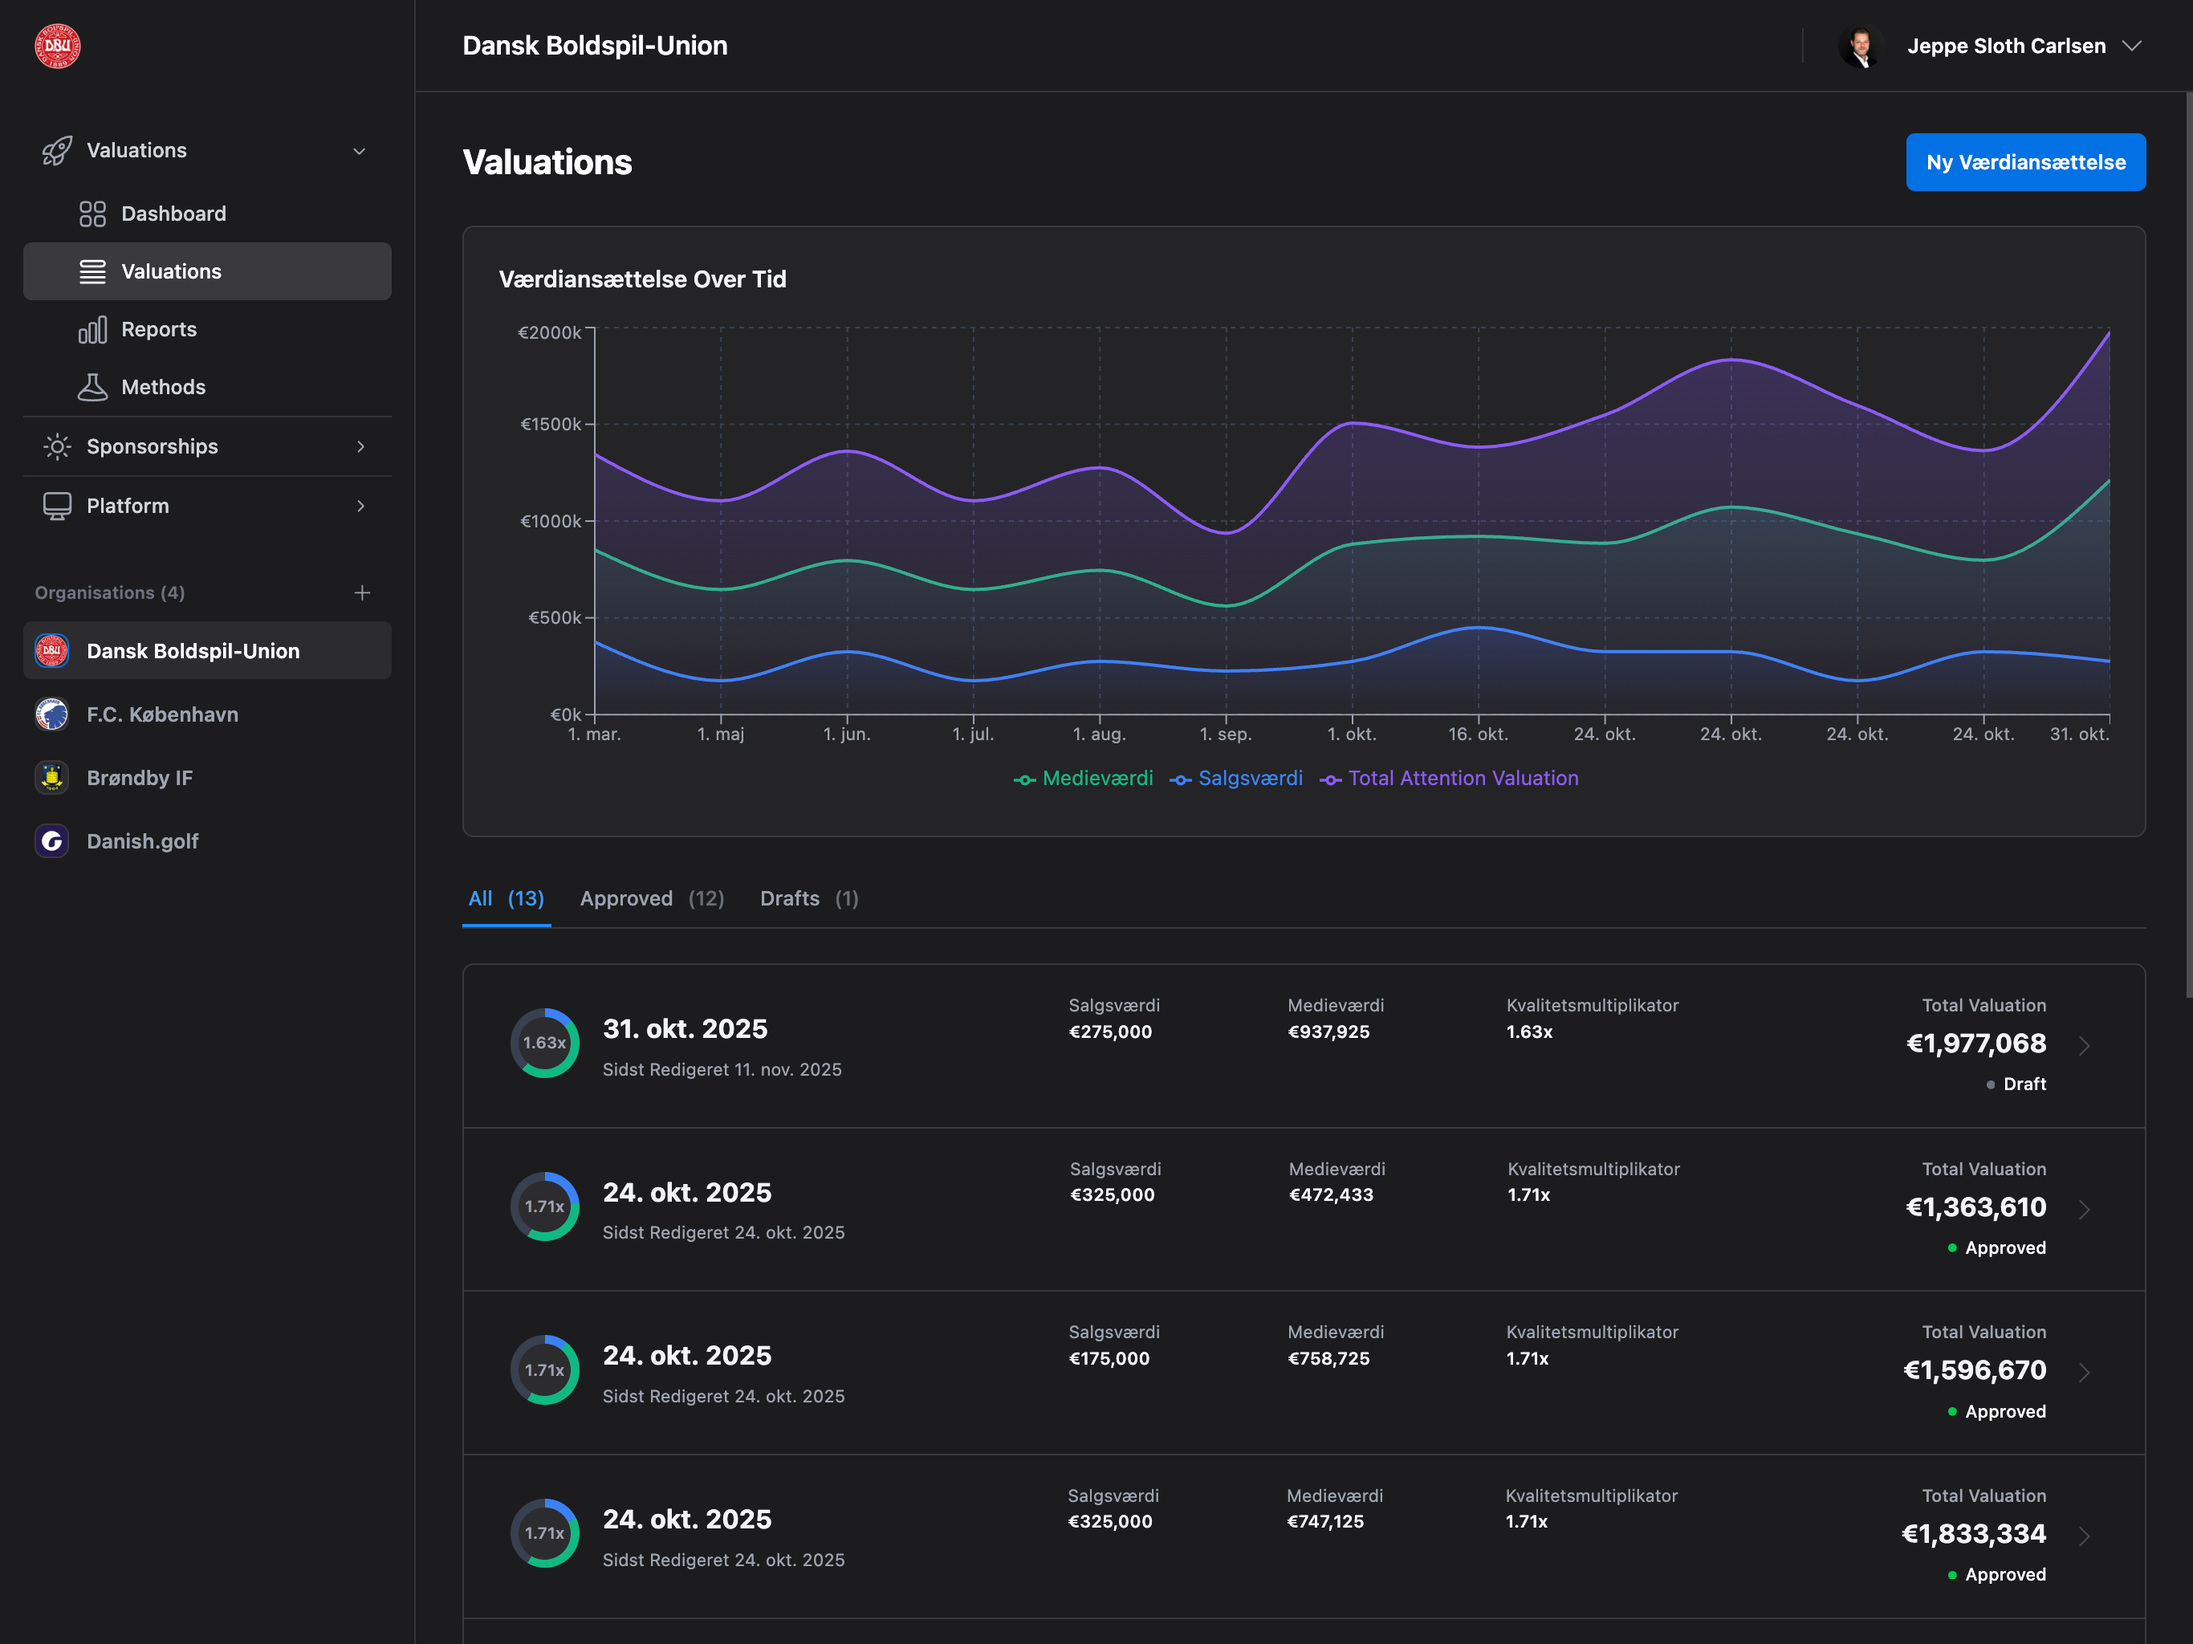
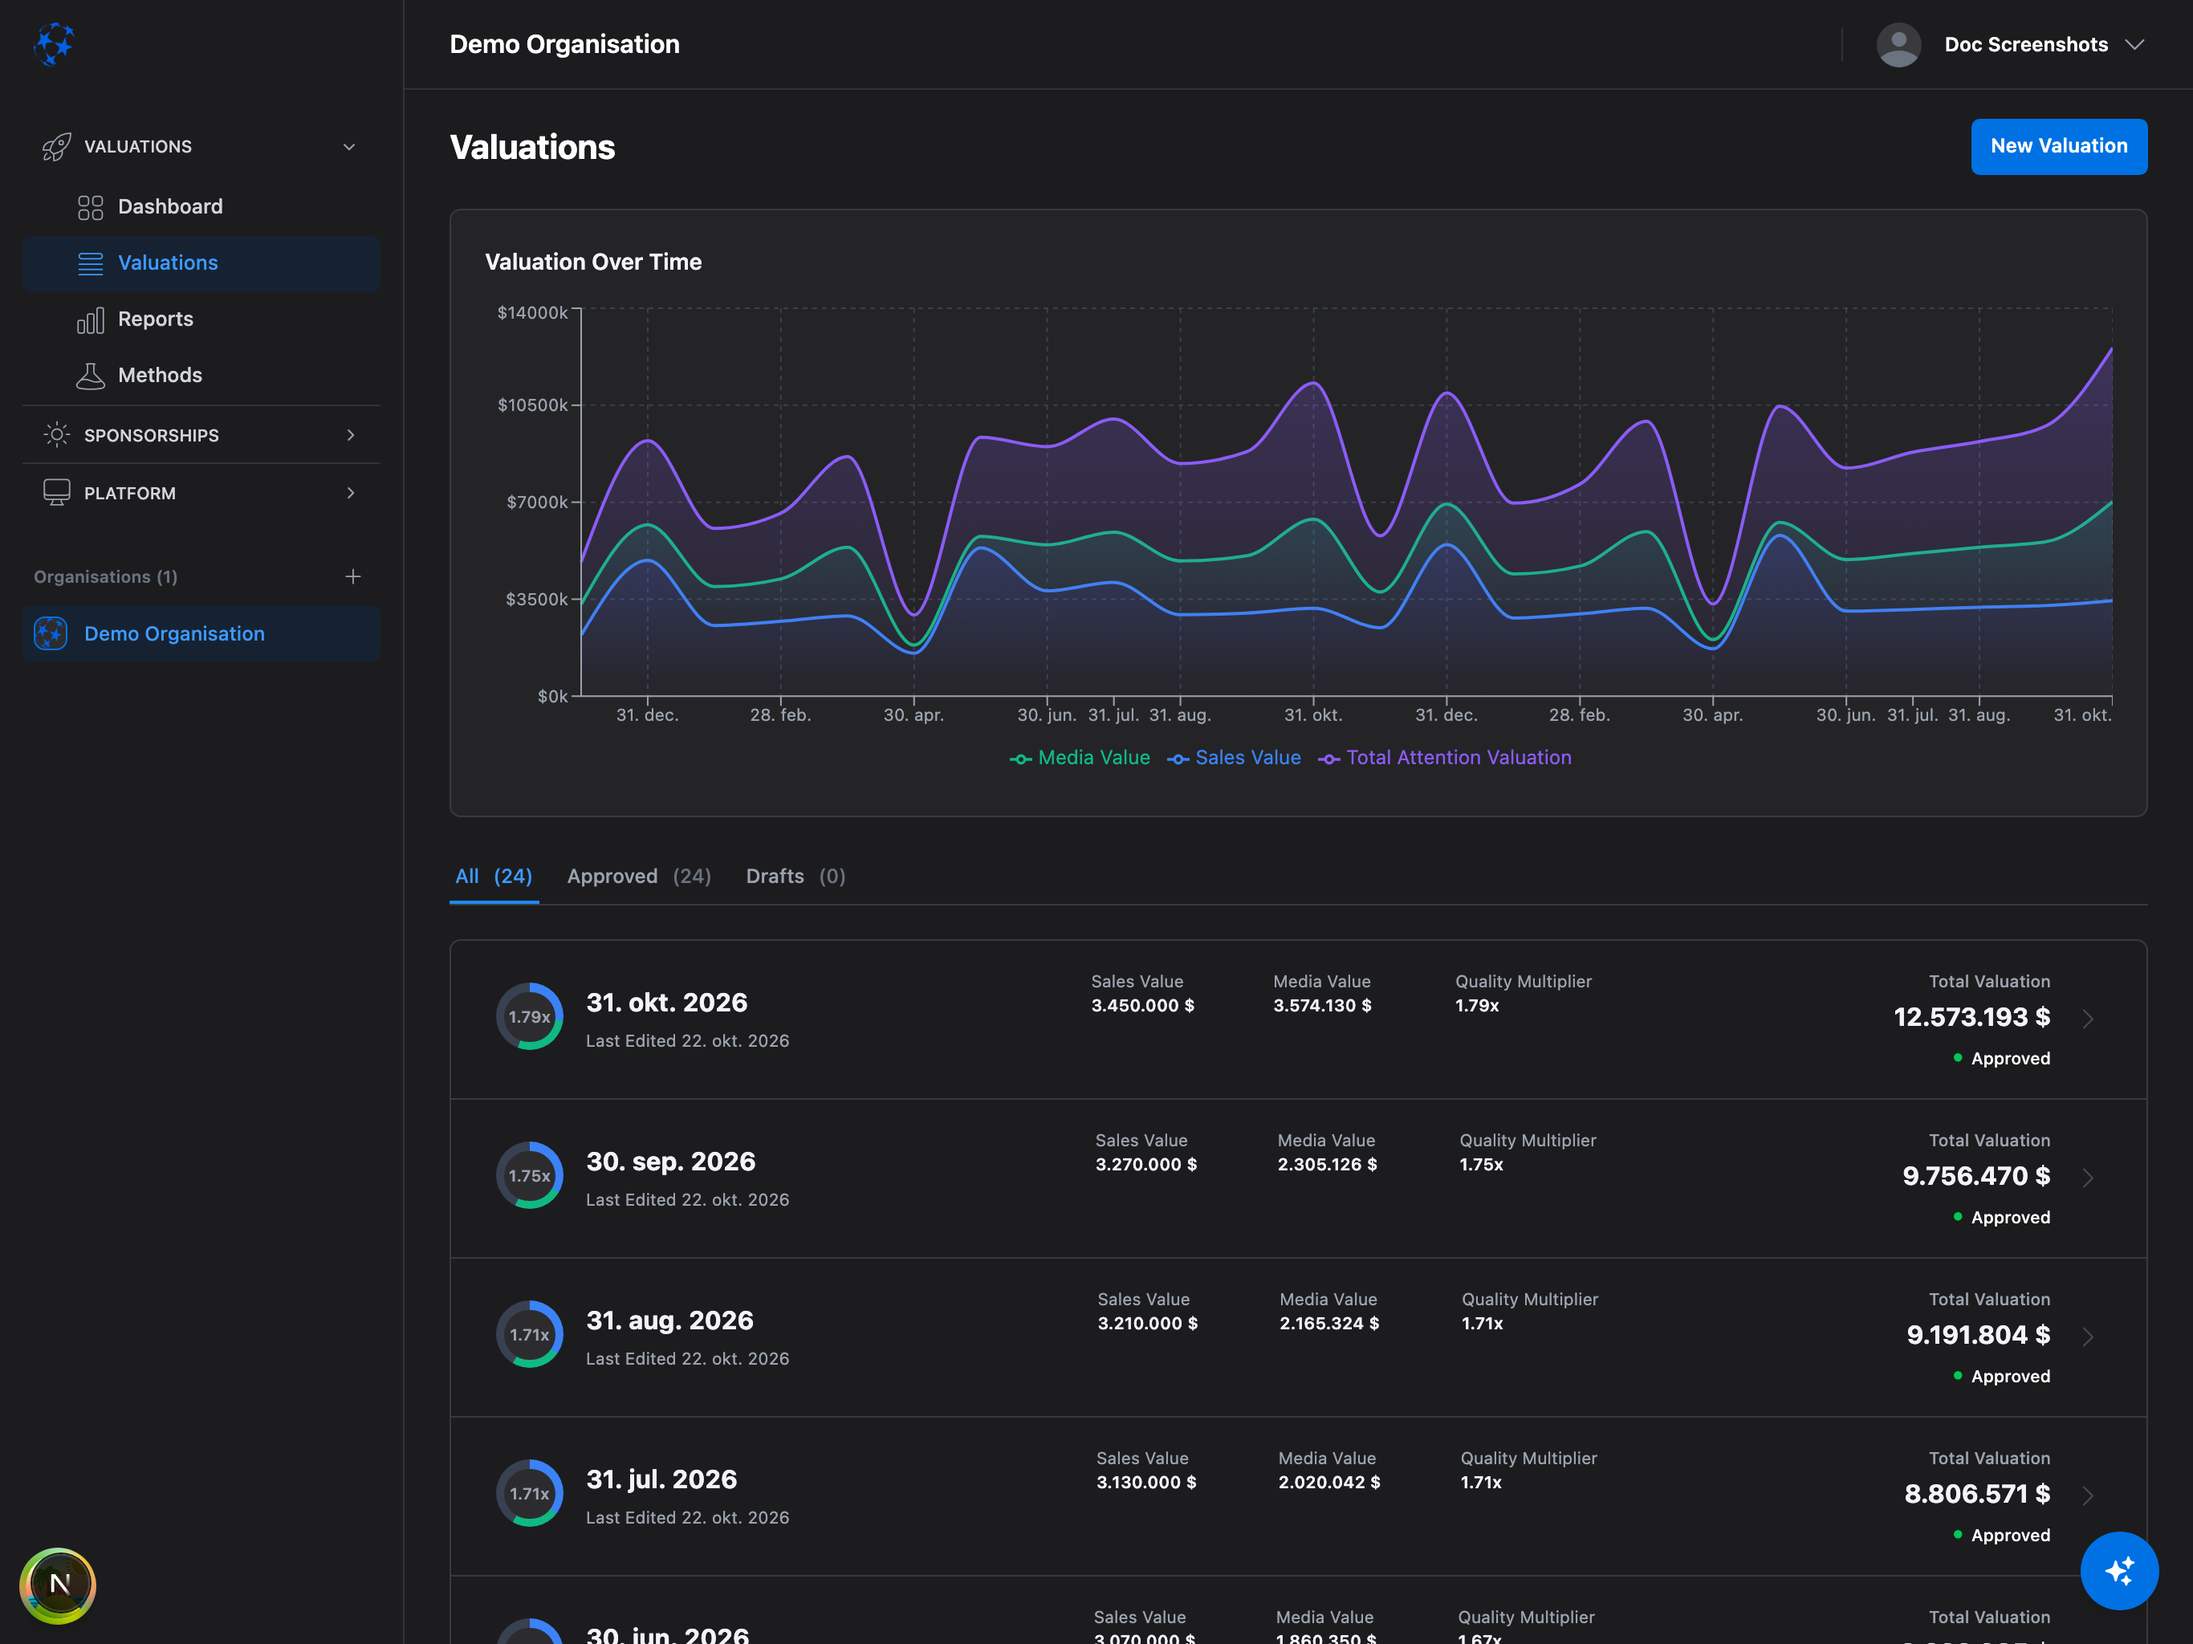
Add 17 automated dark-mode screenshots + screenshot generator script
Playwright script (scripts/screenshot-docs.ts) logs in as demo user,
navigates to each page, and captures 2732x2048 retina screenshots in
dark mode. Fills in all previously missing images.

New images: analytics-dashboard, social-deep-dive-config, base-currency,
brand-value-indicators, upload-document-modal, adjust-modal, history-modal,
quantity-input, pdf-design-templates, attach-documents.
Updated: plugins overview, settings tabs, documents, dashboard, valuations
list, reports.

diff --git a/scripts/screenshot-docs.ts b/scripts/screenshot-docs.ts
@@ -1,0 +1,272 @@
+/**
+ * Automated screenshot generator for docs.valiyou.com
+ *
+ * Logs into the demo organization and captures screenshots of every page
+ * that needs an image in the knowledge center. Saves to the correct path
+ * so broken image references are fixed automatically.
+ *
+ * Screenshots match existing images: 2732×2048 (iPad Pro retina, 2x).
+ * Light mode only (matches existing screenshots).
+ *
+ * Usage:
+ *   BASE_URL=http://localhost:3000 npx tsx scripts/screenshot-docs.ts
+ *   BASE_URL=https://dev.valiyou.io npx tsx scripts/screenshot-docs.ts
+ *
+ * Requires: @playwright/test (already installed in the main repo)
+ */
+
+import { createRequire } from 'module';
+const require = createRequire('/Users/jeppe/Documents/valiyou.io/package.json');
+const { chromium } = require('@playwright/test') as typeof import('@playwright/test');
+import type { Page } from '@playwright/test';
+import { mkdirSync, existsSync } from 'fs';
+import { dirname, join } from 'path';
+
+const BASE_URL = process.env.BASE_URL || 'http://localhost:3000';
+const DOCS_ROOT = join(import.meta.dirname, '..');
+const IMAGES_ROOT = join(DOCS_ROOT, 'images');
+
+// iPad Pro viewport at 2x = 2732×2048 screenshots
+const VIEWPORT = { width: 1366, height: 1024 };
+
+interface Screenshot {
+  /** Output path relative to images/ */
+  path: string;
+  /** App URL to navigate to (after login) */
+  url: string;
+  /** Optional: wait for a selector before capturing */
+  waitFor?: string;
+  /** Optional: click something before capturing (e.g. open a modal) */
+  click?: string;
+  /** Optional: delay in ms after navigation */
+  delay?: number;
+  /** Optional: description for logging */
+  description?: string;
+}
+
+const SCREENSHOTS: Screenshot[] = [
+  // === Platform / Plugins ===
+  {
+    path: 'platform/plugins/overview.png',
+    url: '/platform/plugins',
+    description: 'Plugins overview page',
+    delay: 2000,
+  },
+  {
+    path: 'platform/plugins/social-deep-dive-config.png',
+    url: '/platform/plugins',
+    description: 'Social Deep Dive config (if modal can be opened)',
+    delay: 2000,
+  },
+
+  // === Platform / Settings ===
+  {
+    path: 'platform/settings/platform-tab.png',
+    url: '/platform/settings',
+    description: 'Settings - Platform tab',
+    delay: 2000,
+  },
+  {
+    path: 'platform/settings/base-currency.png',
+    url: '/platform/settings',
+    description: 'Settings - Base Currency section',
+    delay: 2000,
+  },
+  {
+    path: 'platform/settings/brand-value-indicators.png',
+    url: '/platform/settings?tab=valuations',
+    description: 'Settings - Brand Value Indicators',
+    delay: 2000,
+  },
+  {
+    path: 'platform/settings/valuations-tab.png',
+    url: '/platform/settings?tab=valuations',
+    description: 'Settings - Valuations tab',
+    delay: 2000,
+  },
+  {
+    path: 'platform/settings/documents.png',
+    url: '/platform/documents',
+    description: 'Documents page',
+    delay: 2000,
+  },
+  {
+    path: 'platform/settings/upload-document-modal.png',
+    url: '/platform/documents',
+    description: 'Upload document modal',
+    delay: 2000,
+  },
+
+  // === Sponsorships ===
+  {
+    path: 'sponsorships/inventory/adjust-modal.png',
+    url: '/products/sponsorships/inventory',
+    description: 'Inventory page',
+    delay: 2000,
+  },
+  {
+    path: 'sponsorships/inventory/history-modal.png',
+    url: '/products/sponsorships/inventory',
+    description: 'Inventory history',
+    delay: 2000,
+  },
+  {
+    path: 'sponsorships/packages/quantity-input.png',
+    url: '/products/sponsorships/packages',
+    description: 'Packages page',
+    delay: 2000,
+  },
+  {
+    path: 'sponsorships/packages/pdf-design-templates.png',
+    url: '/products/sponsorships/packages',
+    description: 'Packages - PDF design',
+    delay: 2000,
+  },
+  {
+    path: 'sponsorships/packages/attach-documents.png',
+    url: '/products/sponsorships/packages',
+    description: 'Packages - attach documents',
+    delay: 2000,
+  },
+
+  // === Analytics ===
+  {
+    path: 'analytics-dashboard.png',
+    url: '/products/sponsorships/analytics',
+    description: 'Sponsorship Analytics dashboard',
+    delay: 3000,
+  },
+
+  // === Valuations ===
+  {
+    path: 'valuations/dashboard/overview.png',
+    url: '/products/valuations/dashboard',
+    description: 'Valuations Dashboard',
+    delay: 3000,
+  },
+  {
+    path: 'valuations/valuations-list/overview.png',
+    url: '/products/valuations/valuations',
+    description: 'Valuations list',
+    delay: 2000,
+  },
+  {
+    path: 'valuations/reports/overview.png',
+    url: '/products/valuations/reports',
+    description: 'Reports page',
+    delay: 2000,
+  },
+];
+
+async function loginAsDemoUser(page: Page) {
+  await page.goto(`${BASE_URL}/auth/login`);
+  const result = await page.evaluate(async () => {
+    const id = `${Date.now()}-${Math.random().toString(36).substring(2, 8)}`;
+    const signUp = await fetch('/api/auth/sign-up/email', {
+      method: 'POST',
+      headers: { 'Content-Type': 'application/json' },
+      body: JSON.stringify({
+        email: `demo-${id}@valiyou.demo`,
+        password:
+          Math.random().toString(36).slice(-12) + Math.random().toString(36).slice(-12),
+        name: 'Doc Screenshots',
+      }),
+    });
+    if (!signUp.ok) return `sign-up failed: ${signUp.status}`;
+    const join = await fetch('/api/platform/demo/join', {
+      method: 'POST',
+      headers: { 'Content-Type': 'application/json' },
+      body: JSON.stringify({ recaptchaToken: 'demo-signup-bypass' }),
+    });
+    if (!join.ok) return `demo join failed: ${join.status}`;
+    sessionStorage.setItem('onboardingJustCompleted', 'true');
+    return 'ok';
+  });
+  if (result !== 'ok') throw new Error(`Login failed: ${result}`);
+  // Wait for dashboard to load
+  await page.waitForURL('**/dashboard**', { timeout: 15000 }).catch(() => {});
+  await page.waitForTimeout(2000);
+}
+
+async function cleanupDemoUser(page: Page) {
+  await page.evaluate(async () => {
+    await fetch('/api/demo/cleanup', { method: 'DELETE' });
+    await fetch('/api/auth/sign-out', {
+      method: 'POST',
+      headers: { 'Content-Type': 'application/json' },
+      body: '{}',
+    });
+  });
+}
+
+async function main() {
+  console.log(`\nScreenshot generator for docs.valiyou.com`);
+  console.log(`Base URL: ${BASE_URL}`);
+  console.log(`Output: ${IMAGES_ROOT}`);
+  console.log(`Viewport: ${VIEWPORT.width}×${VIEWPORT.height} (2x = ${VIEWPORT.width * 2}×${VIEWPORT.height * 2})`);
+  console.log(`Screenshots: ${SCREENSHOTS.length}\n`);
+
+  const browser = await chromium.launch();
+  const context = await browser.newContext({
+    viewport: VIEWPORT,
+    deviceScaleFactor: 2, // Retina → 2732×2048 output
+    colorScheme: 'dark',
+  });
+  const page = await context.newPage();
+
+  try {
+    // Login
+    console.log('Logging in as demo user...');
+    await loginAsDemoUser(page);
+    console.log('Logged in.\n');
+
+    let captured = 0;
+    let skipped = 0;
+
+    for (const shot of SCREENSHOTS) {
+      const outPath = join(IMAGES_ROOT, shot.path);
+      const dir = dirname(outPath);
+      if (!existsSync(dir)) mkdirSync(dir, { recursive: true });
+
+      try {
+        console.log(`📸 ${shot.description || shot.path}`);
+        console.log(`   → ${shot.url}`);
+
+        await page.goto(`${BASE_URL}${shot.url}`, { waitUntil: 'networkidle' });
+
+        if (shot.waitFor) {
+          await page.waitForSelector(shot.waitFor, { timeout: 10000 });
+        }
+
+        if (shot.delay) {
+          await page.waitForTimeout(shot.delay);
+        }
+
+        if (shot.click) {
+          await page.click(shot.click);
+          await page.waitForTimeout(1000);
+        }
+
+        await page.screenshot({ path: outPath, type: 'png' });
+        console.log(`   ✅ ${outPath}\n`);
+        captured++;
+      } catch (err) {
+        console.log(`   ❌ ${err instanceof Error ? err.message : String(err)}\n`);
+        skipped++;
+      }
+    }
+
+    // Cleanup
+    console.log('Cleaning up demo user...');
+    await cleanupDemoUser(page);
+
+    console.log(`\nDone: ${captured} captured, ${skipped} skipped`);
+  } finally {
+    await browser.close();
+  }
+}
+
+main().catch((err) => {
+  console.error(err);
+  process.exit(1);
+});
